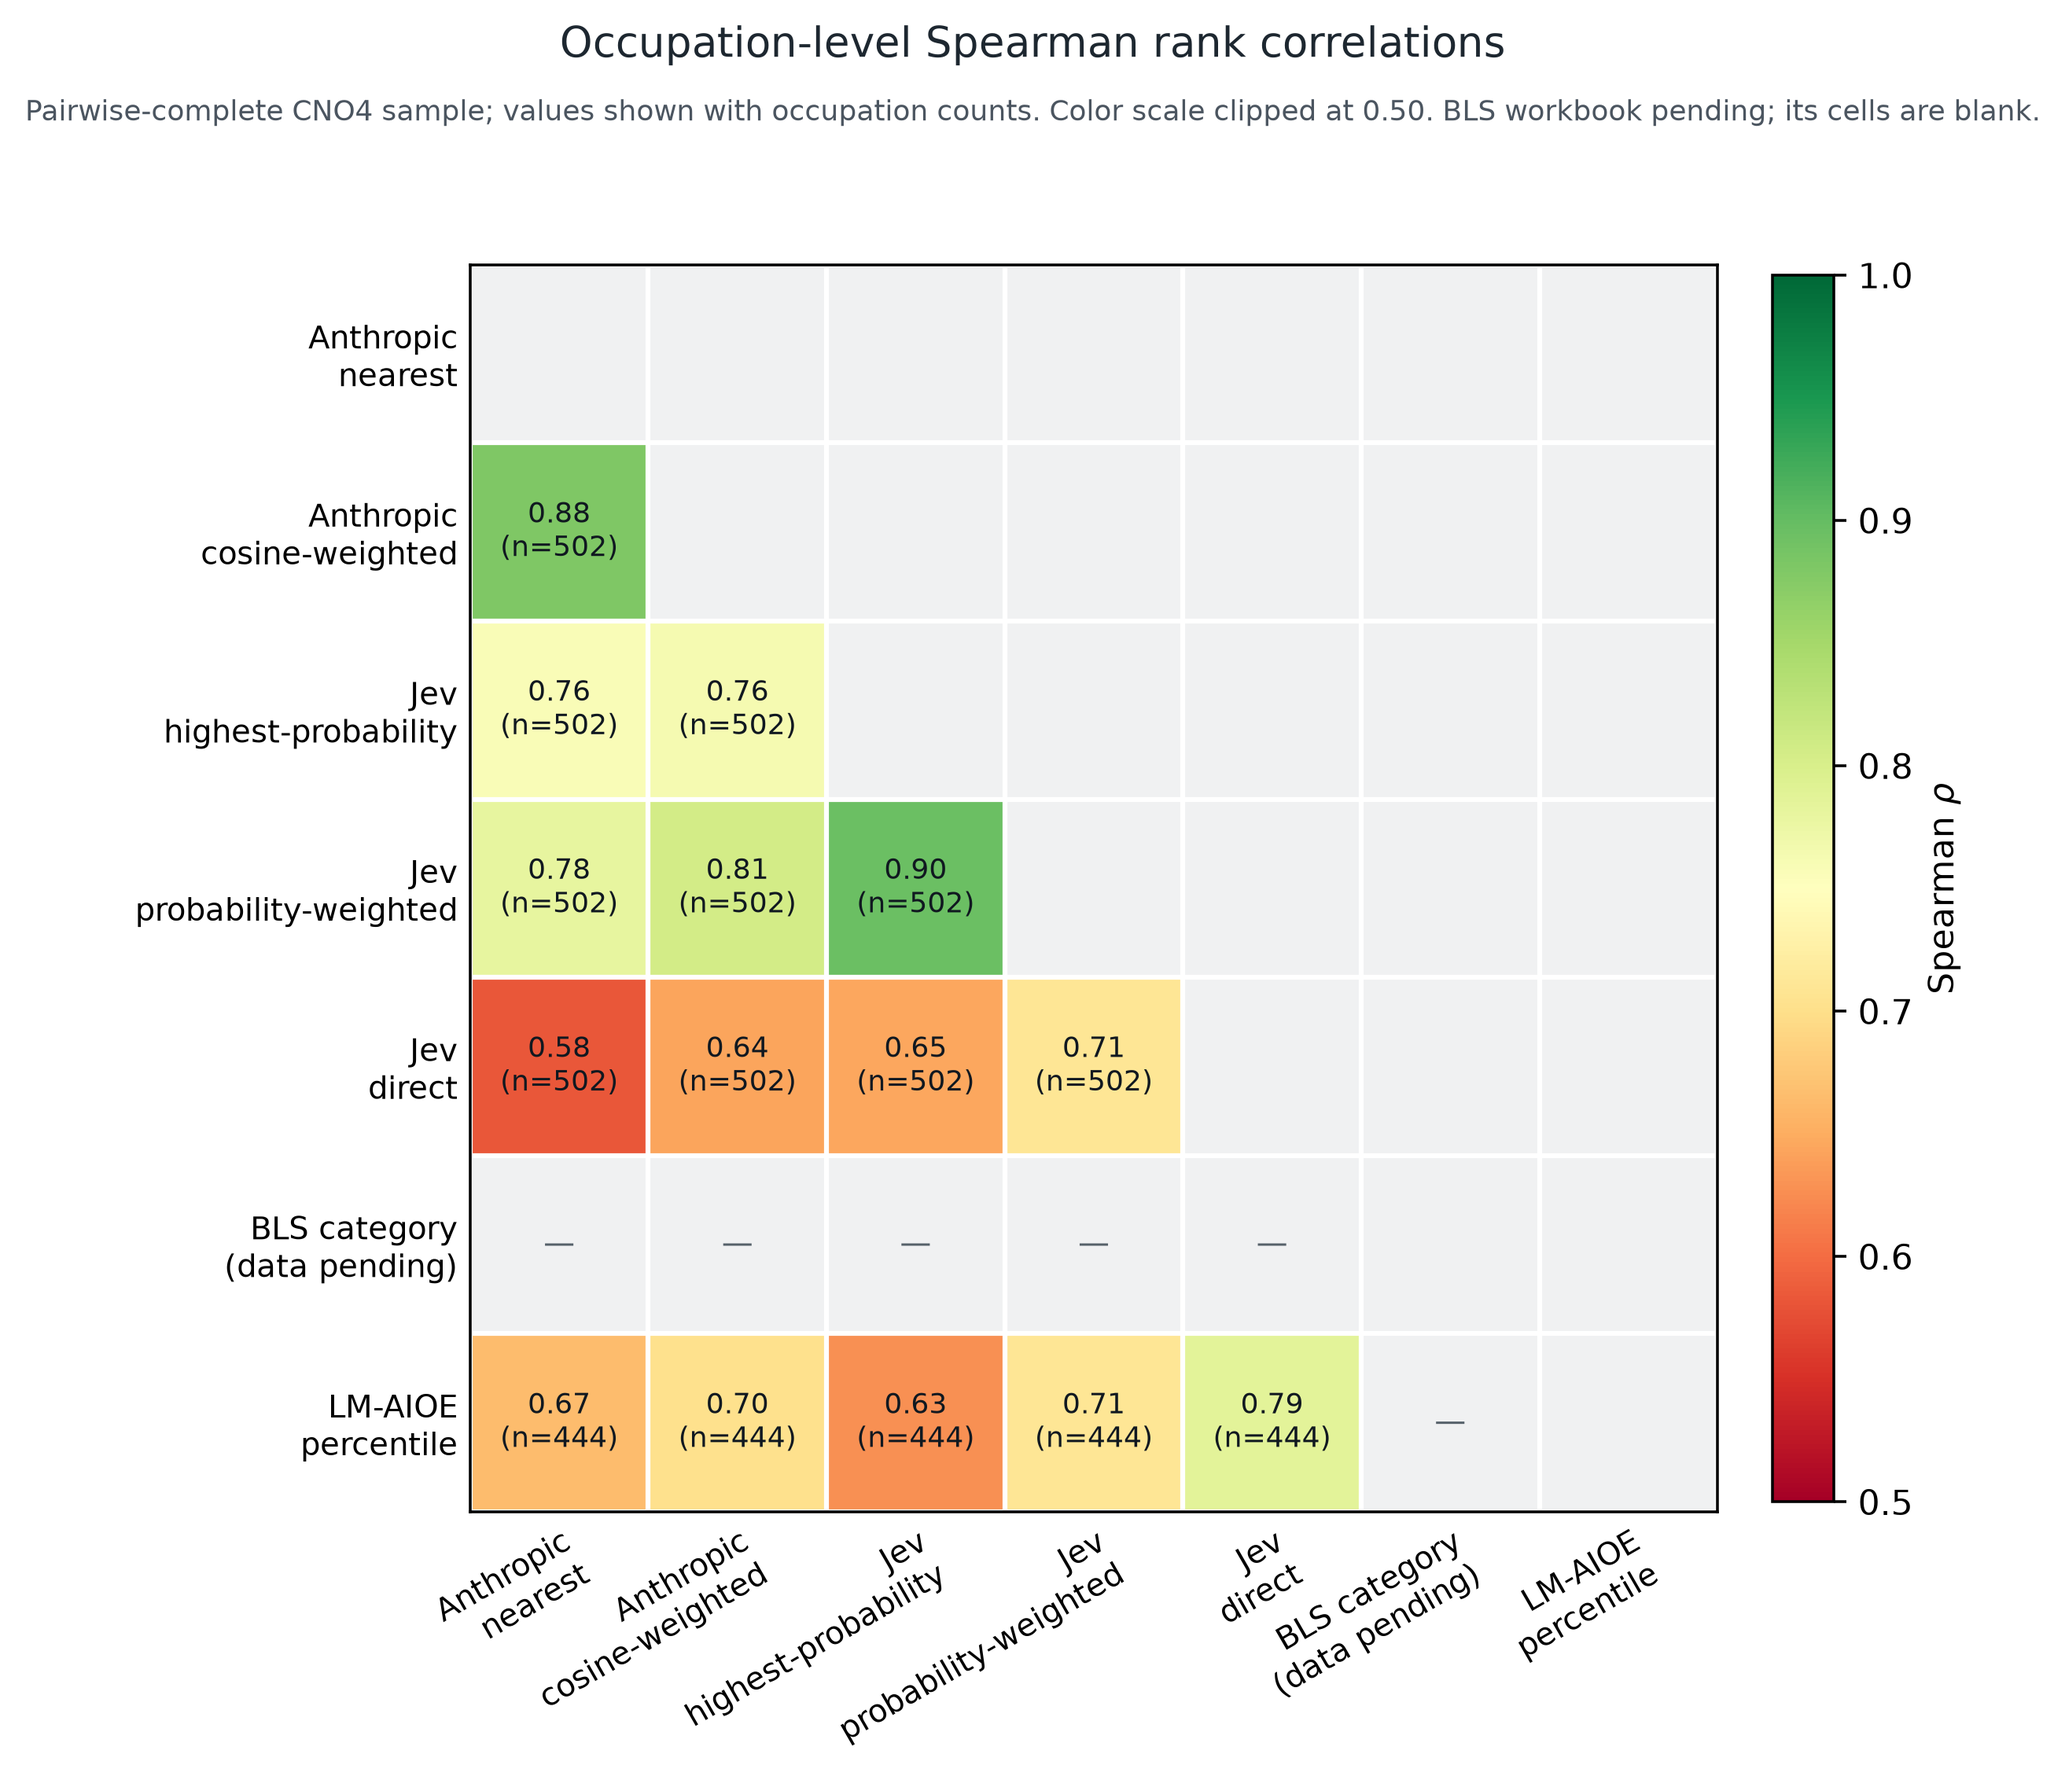
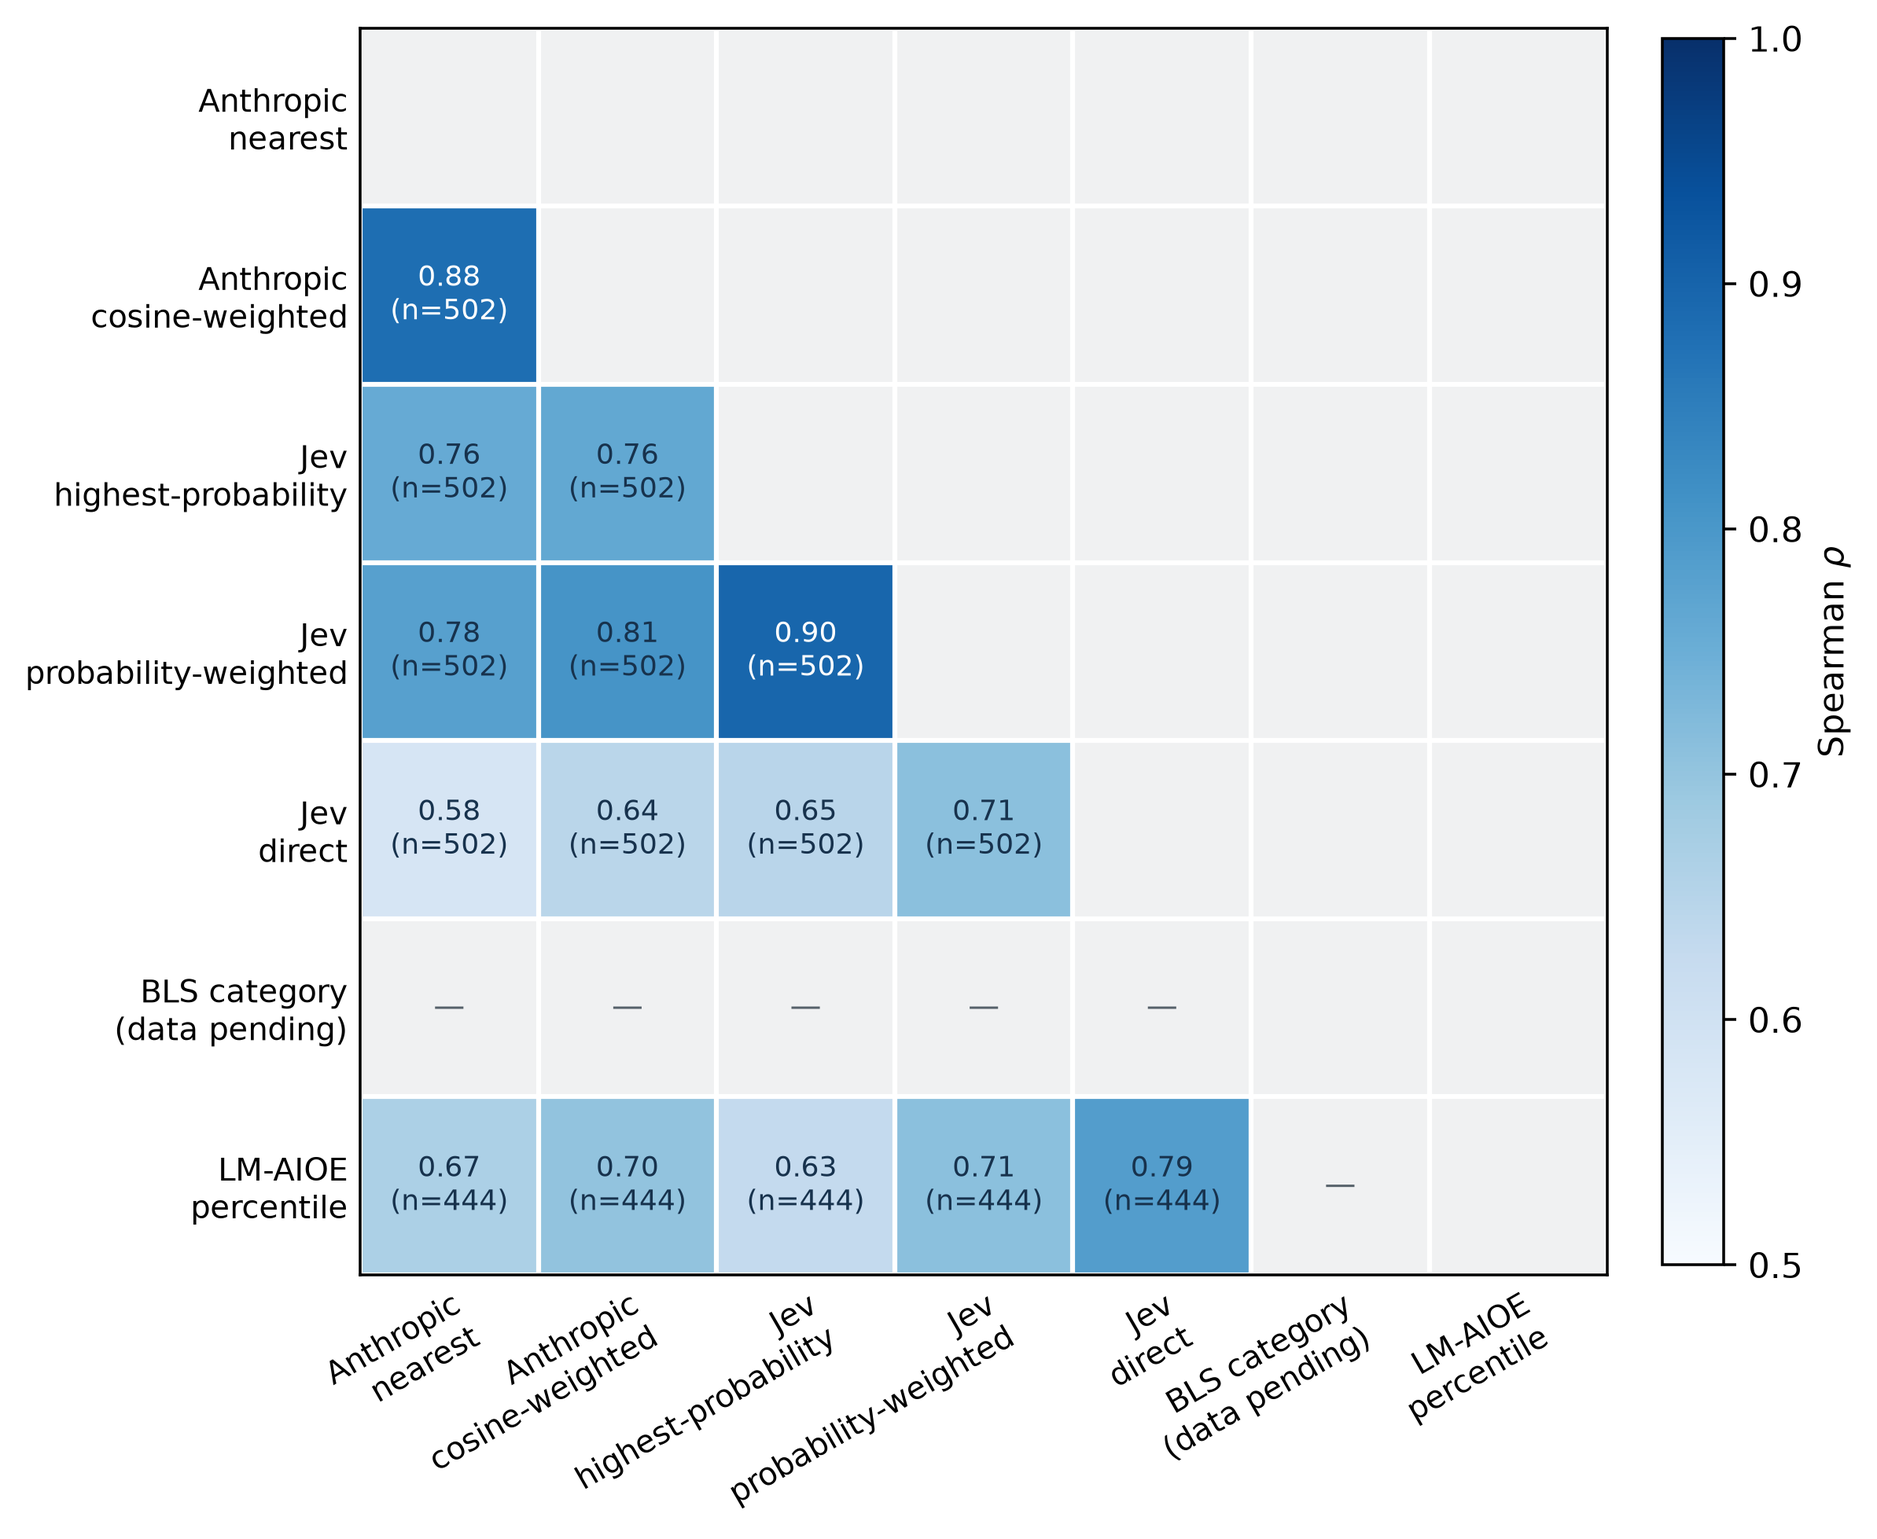
Restyle Jev exposure correlation matrix

diff --git a/analysis/paper_replication/lib/jev_robustness.py b/analysis/paper_replication/lib/jev_robustness.py
@@ -357,7 +357,7 @@ def build_exposure_correlation_matrix(
     values = correlations.to_numpy(dtype=float)
     mask = np.triu(np.ones_like(values, dtype=bool), k=0)
     shown = np.ma.array(values, mask=mask | ~np.isfinite(values))
-    cmap = plt.get_cmap("RdYlGn").with_extremes(bad="#F0F1F2")
+    cmap = plt.get_cmap("Blues").with_extremes(bad="#F0F1F2")
     fig, ax = plt.subplots(figsize=(8.6, 7.8))
     image = ax.imshow(shown, cmap=cmap, vmin=0.5, vmax=1.0, interpolation="none")
     ax.set_xticks(np.arange(len(labels)), labels=labels, rotation=30, ha="right", rotation_mode="anchor")
@@ -372,16 +372,13 @@ def build_exposure_correlation_matrix(
             rho = values[i, j]
             n = int(pairwise_n.iat[i, j])
             if np.isfinite(rho):
-                color = "white" if rho < 0.57 or rho > 0.94 else "#101820"
+                red, green, blue, _ = cmap((rho - 0.5) / 0.5)
+                luminance = 0.2126 * red + 0.7152 * green + 0.0722 * blue
+                color = "#FFFFFF" if luminance < 0.48 else "#17324D"
                 ax.text(j, i, f"{rho:.2f}\n(n={n})", ha="center", va="center", color=color, fontsize=8)
             elif (measure_names[i] == "bls_ai_category_code" or measure_names[j] == "bls_ai_category_code") and not bls_path:
                 ax.text(j, i, "—", ha="center", va="center", color="#56616A", fontsize=9)
-    subtitle = "Pairwise-complete CNO4 sample; values shown with occupation counts. Color scale clipped at 0.50."
-    if not bls_path:
-        subtitle += " BLS workbook pending; its cells are blank."
-    fig.suptitle("Occupation-level Spearman rank correlations", fontsize=12, y=0.98, color="#1D2730")
-    fig.text(0.5, 0.935, subtitle, ha="center", va="center", fontsize=8, color="#4B5560")
-    fig.subplots_adjust(top=0.88, bottom=0.20, left=0.24, right=0.87)
+    fig.subplots_adjust(top=0.98, bottom=0.20, left=0.24, right=0.87)
     colorbar = fig.colorbar(image, ax=ax, fraction=0.045, pad=0.04)
     colorbar.set_label("Spearman $\\rho$", rotation=90)
     figure_path = output / "Exposure_correlation_matrix.png"
